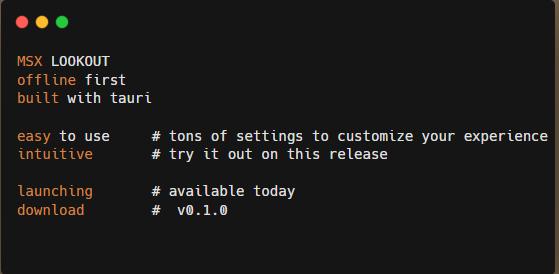
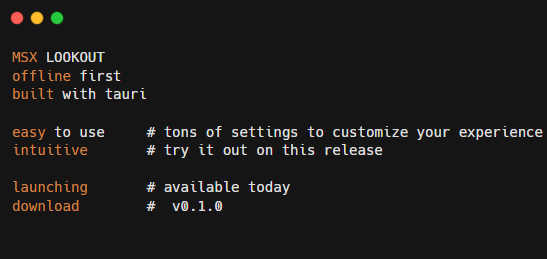
fixing the readme

diff --git a/readme.md b/readme.md
@@ -6,7 +6,9 @@ This is a tool that tracks stocks on the Muscat Stock Exchange (MSX). Built for 
 
 ## How it works
 
-how it works diagram ![How it works](docs/how-it-works.svg)
+how it works diagram 
+
+![How it works](docs/how-it-works.svg)
 
 Every trading day (Sunday - Thursday, right after MSX closes, emails usually go out around 5pm) it pulls that day's prices for every listed stock from MSX's own site. Saves them in a database, nothing gets overwritten, so the history just keeps growing and you can look at older prices later.
 
